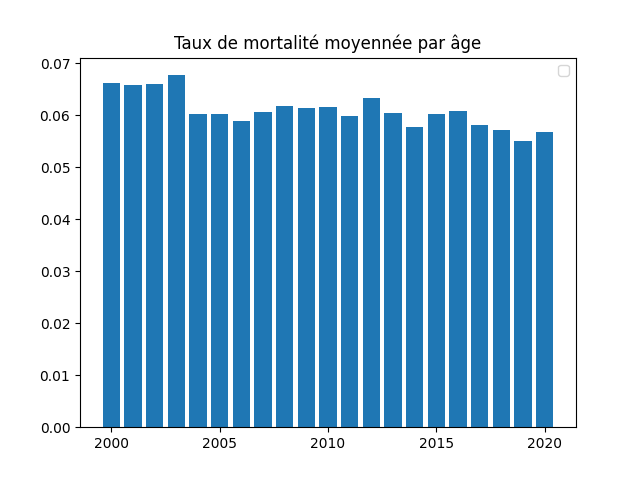
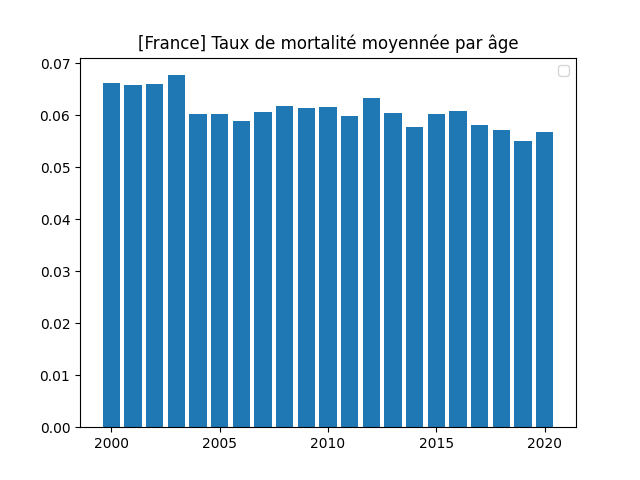
Add [France] to graphs titles

Changed region(s): [[0.2188, 0.0625, 0.8125, 0.125]]

diff --git a/run.py b/run.py
@@ -97,6 +97,7 @@ def all():
     _compute_deces_par_date()
     _compute_population_par_age()
     _compute_deces_par_age()
+    _compute_taux_mortalite_moyenne_par_age(list(range(2000,2020+1)))
 
 
 @main.command("init_db")
@@ -246,7 +247,7 @@ def _compute_taux_mortalite_par_age():
     print(f"compute taux_mortalite_par_age")
     _assert_all_date_ranges_have_same_duration()
     plt.clf()
-    plt.title("Taux de mortalité par âge")
+    plt.title("[France] Taux de mortalité par âge")
     with _db_connect() as conn:
         age_range = list(range(1, 101))
         for dr in _get_date_ranges():
@@ -284,7 +285,7 @@ def _compute_deces_par_date():
     print(f"compute deces_par_date")
     _assert_all_date_ranges_have_same_duration()
     plt.clf()
-    plt.title("Décès par date")
+    plt.title("[France] Décès par date")
     with _db_connect() as conn:
         for dr in _get_date_ranges():
             deces_par_date = _select_deces_par_date(conn, dr["range"])
@@ -311,7 +312,7 @@ def _compute_population_par_age():
     print(f"compute population_par_age")
     _assert_all_date_ranges_have_same_duration()
     plt.clf()
-    plt.title("Population par âge")
+    plt.title("[France] Population par âge")
     age_range = list(range(1, 101))
     with _db_connect() as conn:
         for dr in _get_date_ranges():
@@ -330,7 +331,7 @@ def _compute_deces_par_age():
     print("compute deces_par_age")
     _assert_all_date_ranges_have_same_duration()
     plt.clf()
-    plt.title("Décès par âge")
+    plt.title("[France] Décès par âge")
     age_range = list(range(1, 101))
     with _db_connect() as conn:
         for dr in _get_date_ranges():
@@ -348,7 +349,7 @@ def compute_taux_mortalite_moyenne_par_age():
 def _compute_taux_mortalite_moyenne_par_age(annees):
     print("compute _compute_taux_mortalite_moyenne_par_age")
     plt.clf()
-    plt.title("Taux de mortalité moyennée par âge")
+    plt.title("[France] Taux de mortalité moyennée par âge")
     moyennes_mortalite = []
     with _db_connect() as conn:
         for annee in annees:
